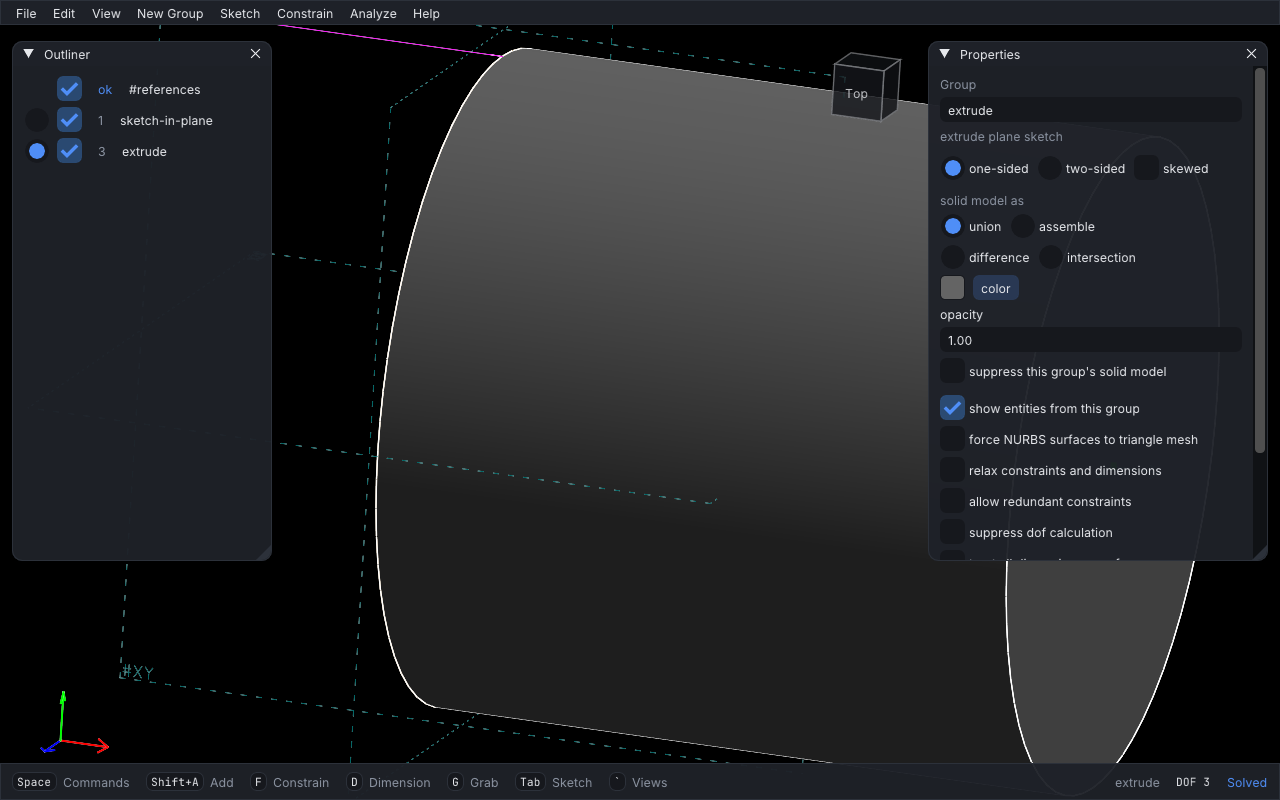
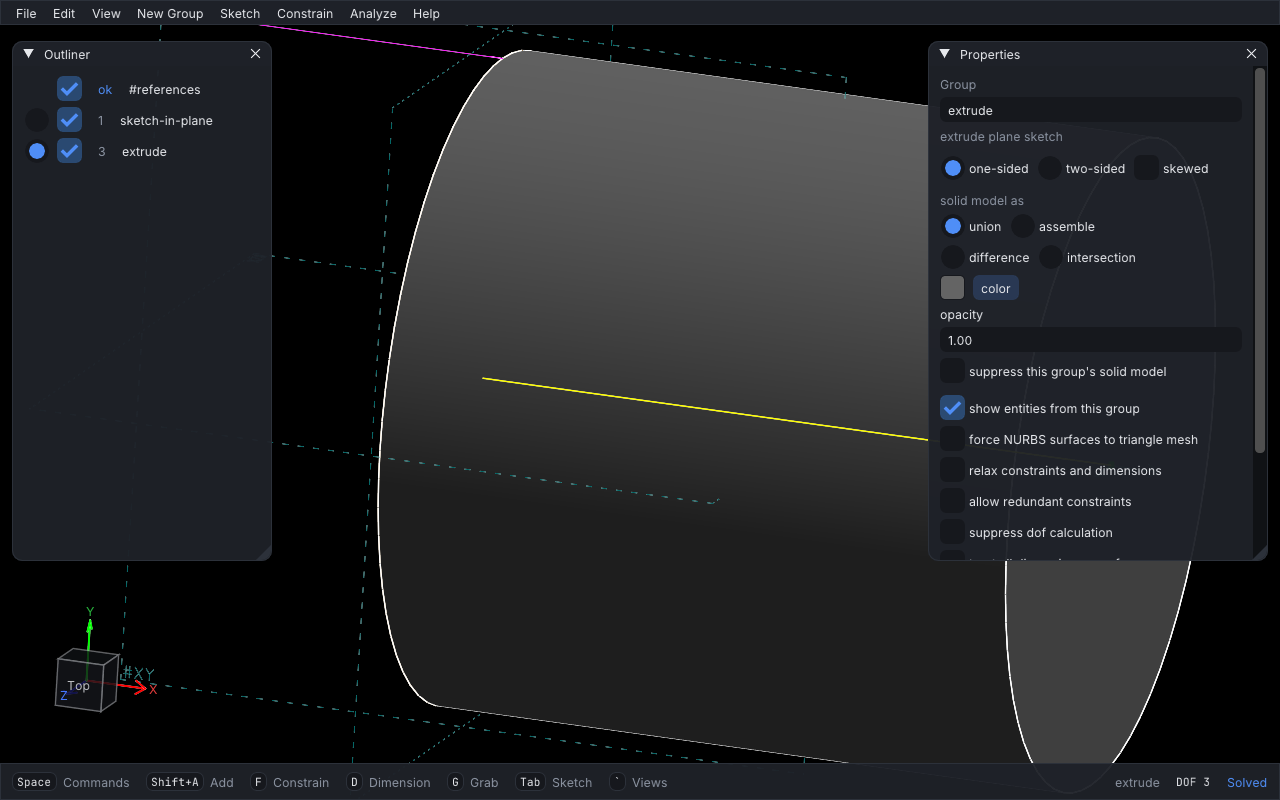
NG: the view cube moves to the bottom left, with SolveSpace's axes.
As the owner decided: Onshape, Fusion 360, Shapr3D and FreeCAD all show
axes with their cube, and SolveSpace has always drawn its X/Y/Z axes in the
bottom left, so the cube goes there with the axes coming out of it
(labelled). The axes are still the reference planes' normals, selectable
for constraints: the core draws them from GraphicsWindow::
referenceAxesAnchor when set, and the cube takes the mouse only over its
faces (ViewCubeTakesMouseAt), so clicks on the axes beside it, or just off
it, reach the canvas. The cube handles its own press, drag and release.

It moves right of a tall Outliner when there is room and otherwise stays
in its corner on screen.

diff --git a/src/ui/viewcube.cpp b/src/ui/viewcube.cpp
@@ -1,5 +1,8 @@
 //-----------------------------------------------------------------------------
-// The view cube.
+// The view cube, in the bottom left of the viewport with SolveSpace's reference X/Y/Z axes
+// coming out of it (decided with the owner, 2026-10-17: where SolveSpace has always drawn its
+// axes). The axes are the canvas's own entities, still selectable for constraints; the cube
+// takes the mouse only over its faces, so clicks beside it reach them.
 //-----------------------------------------------------------------------------
 #include "solvespace.h"
 #include "imgui.h"
@@ -10,9 +13,13 @@
 namespace SolveSpace {
 namespace Ui {
 
-static const double  CubeSize = 26; // half the side of a face seen square on
-static const float   Box      = 100; // the area it may cover, for any orientation
-static Point2d       gCenter;
+static const double CubeSize   = 24;  // half the side of a face seen square on
+static const double AxisLength = 62;  // from the cube's centre, past its corners
+static const float  Box        = 150; // the area cube, axes and labels may cover
+
+static Point2d gCenter;
+static bool    gPressed = false, gDragging = false;
+static Point2d gPressAt;
 
 Point2d ViewCubeCenter() {
     return gCenter;
@@ -22,15 +29,25 @@ double ViewCubeSize() {
     return CubeSize;
 }
 
+bool ViewCubeTakesMouseAt(double x, double y, bool canvasPressed) {
+    if(gPressed) return true; // a press on the cube keeps the mouse until it is released
+    if(canvasPressed) return false;
+    return ViewCubePick(SS.GW.projRight, SS.GW.projUp, gCenter, CubeSize, Point2d::From(x, y))
+        .has_value();
+}
+
 static ImVec2 V(Point2d p) {
     return ImVec2((float)p.x, (float)p.y);
 }
 
-// The top right corner of the viewport, left of any panel there.
+// The bottom left corner of the viewport, above the status bar, right of any panel there.
 static ImVec2 Placement() {
-    ImGuiIO &io  = ImGui::GetIO();
-    float    top = ImGui::GetFrameHeight() + 12;
-    ImRect   box(io.DisplaySize.x - 12 - Box, top, io.DisplaySize.x - 12, top + Box);
+    ImGuiIO &io     = ImGui::GetIO();
+    float    bottom = io.DisplaySize.y - 12;
+    if(ImGuiWindow *status = ImGui::FindWindowByName("##statusbar")) {
+        if(status->WasActive) bottom = status->Pos.y - 8;
+    }
+    ImRect box(12, bottom - Box, 12 + Box, bottom);
     for(int pass = 0; pass < 8; pass++) {
         bool moved = false;
         for(ImGuiWindow *w : ImGui::GetCurrentContext()->Windows) {
@@ -40,51 +57,76 @@ static ImVec2 Placement() {
                 continue; // (the pie and the cube itself have no background)
             }
             ImRect r = w->Rect();
-            if(!r.Overlaps(box) || r.Min.y < 1) continue; // the menu bar sits above
-            float shift = box.Max.x - (r.Min.x - 12);
-            box.Min.x -= shift;
-            box.Max.x -= shift;
+            if(!r.Overlaps(box) || r.Min.y < 1 || strcmp(w->Name, "##statusbar") == 0) continue;
+            float shift = (r.Max.x + 12) - box.Min.x;
+            box.Min.x += shift;
+            box.Max.x += shift;
             moved = true;
         }
         if(!moved) break;
     }
+    // No free spot (a small window with both side panels): stay in the corner, on screen.
+    if(box.Max.x > io.DisplaySize.x) return ImVec2(12, bottom - Box);
     return box.Min;
 }
 
 std::function<void()> DrawViewCube() {
     std::function<void()> run;
-    ImVec2 at = Placement();
+    ImGuiIO &io = ImGui::GetIO();
+    ImVec2   at = Placement();
+    // No inputs: the cube's faces take the mouse (ViewCubeTakesMouseAt), the rest of the area
+    // belongs to the canvas, where the axes are.
     ImGui::SetNextWindowPos(at);
     ImGui::SetNextWindowSize(ImVec2(Box, Box));
     ImGui::PushStyleVar(ImGuiStyleVar_WindowPadding, ImVec2(0, 0));
     ImGui::Begin("##viewcube-window", nullptr,
                  ImGuiWindowFlags_NoDecoration | ImGuiWindowFlags_NoBackground |
                  ImGuiWindowFlags_NoSavedSettings | ImGuiWindowFlags_NoNav |
-                 ImGuiWindowFlags_NoFocusOnAppearing | ImGuiWindowFlags_NoBringToFrontOnFocus);
+                 ImGuiWindowFlags_NoInputs | ImGuiWindowFlags_NoFocusOnAppearing |
+                 ImGuiWindowFlags_NoBringToFrontOnFocus);
     ImGui::PopStyleVar();
-    gCenter = Point2d::From(at.x + Box / 2, at.y + Box / 2);
-    Vector right = SS.GW.projRight, up = SS.GW.projUp;
-
+    Point2d center = Point2d::From(at.x + Box / 2, at.y + Box / 2);
+    if(!center.Equals(gCenter)) {
+        gCenter = center;
+        // The canvas draws the axes from here (pixels from the view centre, y up).
+        SS.GW.referenceAxesAnchor =
+            Point2d::From(center.x - io.DisplaySize.x / 2, io.DisplaySize.y / 2 - center.y);
+        SS.GW.referenceAxesLength = AxisLength;
+        SS.GW.Invalidate(/*clearPersistent=*/true);
+    }
+    // The cube's area, findable by the UI tests as "viewcube" (the window takes no input).
     ImGui::InvisibleButton("##viewcube", ImVec2(Box, Box));
-    // See-through until the mouse is on it, so it hides little of the model (as FreeCAD's).
-    bool  over    = ImGui::IsItemHovered() || ImGui::IsItemActive();
-    float opacity = over ? 0.97f : 0.8f;
-    ImGuiIO &io = ImGui::GetIO();
-    Point2d  mouse = Point2d::From(io.MousePos.x, io.MousePos.y);
+
+    Vector  right = SS.GW.projRight, up = SS.GW.projUp;
+    Point2d mouse = Point2d::From(io.MousePos.x, io.MousePos.y);
+    bool    overOtherUi = ImGui::IsWindowHovered(ImGuiHoveredFlags_AnyWindow);
     std::optional<Vector> hovered;
-    if(ImGui::IsItemHovered() || ImGui::IsItemActive()) {
-        hovered = ViewCubePick(right, up, gCenter, CubeSize, mouse);
+    if(!overOtherUi || gPressed) hovered = ViewCubePick(right, up, gCenter, CubeSize, mouse);
+    // Press on a face, then drag to orbit (as a middle-button drag) or release to look from
+    // what was pressed.
+    if(ImGui::IsMouseClicked(ImGuiMouseButton_Left) && hovered && !overOtherUi) {
+        gPressed  = true;
+        gDragging = false;
+        gPressAt  = mouse;
     }
-    // Dragging the cube orbits, as a middle-button drag does; a click looks from what it hit.
-    if(ImGui::IsItemActive() && ImGui::IsMouseDragging(ImGuiMouseButton_Left, 3)) {
-        double dx = io.MouseDelta.x, dy = io.MouseDelta.y;
-        if(dx != 0 || dy != 0) run = [dx, dy] { SS.GW.OrbitBy(dx, dy); };
-        hovered.reset();
-    } else if(ImGui::IsItemDeactivated() && !ImGui::IsMouseDragPastThreshold(0, 3) && hovered) {
-        Vector dir = *hovered;
-        run = [dir] { SS.GW.SnapToDirection(dir, /*animate=*/true); };
+    if(gPressed) {
+        if(!gDragging && mouse.DistanceTo(gPressAt) > 3) gDragging = true;
+        if(gDragging) {
+            double dx = io.MouseDelta.x, dy = io.MouseDelta.y;
+            if(dx != 0 || dy != 0) run = [dx, dy] { SS.GW.OrbitBy(dx, dy); };
+            hovered.reset();
+        }
+        if(ImGui::IsMouseReleased(ImGuiMouseButton_Left) || !io.MouseDown[0]) {
+            if(!gDragging && hovered) {
+                Vector dir = *hovered;
+                run = [dir] { SS.GW.SnapToDirection(dir, /*animate=*/true); };
+            }
+            gPressed = gDragging = false;
+        }
     }
 
+    // See-through until the mouse is on it, so it hides little of the model (as FreeCAD's).
+    float opacity = (hovered || gPressed) ? 0.97f : 0.8f;
     ImDrawList *dl     = ImGui::GetWindowDrawList();
     ImVec4      face   = ImGui::GetStyleColorVec4(ImGuiCol_FrameBg);
     ImVec4      text   = ImGui::GetStyleColorVec4(ImGuiCol_Text);
@@ -114,6 +156,21 @@ std::function<void()> DrawViewCube() {
             ImVec2 q[4] = { V(quad[0]), V(quad[1]), V(quad[2]), V(quad[3]) };
             dl->AddConvexPolyFilled(q, 4, hi);
         }
+    }
+    // Name the axes at their tips, in the canvas's axis colours.
+    const struct { const char *name; Vector dir; ImU32 colour; } axes[] = {
+        { "X", { 1, 0, 0 }, IM_COL32(230, 60, 60, 255) },
+        { "Y", { 0, 1, 0 }, IM_COL32(40, 180, 60, 255) },
+        { "Z", { 0, 0, 1 }, IM_COL32(70, 120, 255, 255) },
+    };
+    for(const auto &a : axes) {
+        double sx = a.dir.Dot(right), sy = -a.dir.Dot(up);
+        double len = sqrt(sx * sx + sy * sy);
+        if(len < 0.25) continue; // pointing at or away from the viewer: no room for a label
+        double  d   = AxisLength + 9;
+        ImVec2  ts  = ImGui::CalcTextSize(a.name);
+        ImVec2  pos((float)(gCenter.x + sx * d - ts.x / 2), (float)(gCenter.y + sy * d - ts.y / 2));
+        dl->AddText(pos, a.colour, a.name);
     }
     ImGui::End();
     return run;

diff --git a/test/ngui/views/test.cpp b/test/ngui/views/test.cpp
@@ -117,14 +117,45 @@ TEST_CASE(dragging_the_view_cube_orbits) {
     CHECK_TRUE(SS.GW.pending.operation == GraphicsWindow::Pending::NONE);
 }
 
-TEST_CASE(view_cube_keeps_clear_of_the_properties_panel) {
+TEST_CASE(view_cube_sits_bottom_left_with_the_axes) {
     CHECK_LOAD("line.slvs");
-    std::optional<Driver::Item> props = Driver::FindItem("Properties");
-    std::optional<Driver::Item> cube  = Driver::FindItem("viewcube");
-    CHECK_TRUE(props && cube);
-    if(props && cube) CHECK_TRUE(cube->x1 <= props->x0 || cube->y0 >= props->y1);
-    // With Properties closed it moves into the corner.
+    std::optional<Driver::Item> cube = Driver::FindItem("viewcube");
+    CHECK_TRUE(cube.has_value());
+    if(cube) CHECK_TRUE(cube->x0 < 40 && cube->y1 > Driver::WindowSize().y - 80);
+    CHECK_TRUE(SS.GW.referenceAxesAnchor.has_value());
+}
+
+TEST_CASE(an_axis_beside_the_cube_can_be_selected) {
+    // The axes are SolveSpace's reference normals: selectable, e.g. for "parallel to Z".
+    CHECK_LOAD("line.slvs");
+    Driver::Key("Keypad 1"); // Z points up the screen
+    Point2d c = Ui::ViewCubeCenter();
+    ClickAt(Point2d::From(c.x, c.y - 52)); // past the cube, on the Z axis
+    hEntity zAxis = SK.GetEntity(Request::HREQUEST_REFERENCE_XY.entity(0))->normal;
+    CHECK_TRUE(SS.GW.selection.n == 1 && SS.GW.selection[0].entity == zAxis);
+    CHECK_TRUE(ViewIs(ViewPreset::FRONT)); // and the view stayed
+}
+
+TEST_CASE(clicks_beside_the_cube_reach_the_canvas) {
+    CHECK_LOAD("line.slvs");
+    Driver::Key("Keypad 1");
+    Point2d c = Ui::ViewCubeCenter();
+    ClickAt(Point2d::From(c.x + 55, c.y - 55)); // inside its area, off the cube and the axes
+    CHECK_TRUE(ViewIs(ViewPreset::FRONT));
+    CHECK_TRUE(SS.GW.selection.n == 0);
+}
+
+TEST_CASE(view_cube_moves_right_of_a_tall_outliner) {
+    CHECK_LOAD("line.slvs");
+    Driver::Resize(720, 480); // the app's minimum height stops it at 636
+    Point2d ws = Driver::WindowSize();
+    // With both side panels there is no free spot: it stays in its corner, on screen.
+    std::optional<Driver::Item> cube = Driver::FindItem("viewcube");
+    CHECK_TRUE(cube && cube->x1 <= ws.x);
+    // Without Properties it moves right of the Outliner, which reaches down beside it.
     CHECK_TRUE(ClosePanel("Properties"));
+    std::optional<Driver::Item> outliner = Driver::FindItem("Outliner");
     cube = Driver::FindItem("viewcube");
-    CHECK_TRUE(cube && cube->x1 > Driver::WindowSize().x - 20);
+    CHECK_TRUE(outliner && cube);
+    if(outliner && cube) CHECK_TRUE(cube->x0 >= outliner->x1 && cube->x1 <= ws.x);
 }

diff --git a/src/drawentity.cpp b/src/drawentity.cpp
@@ -653,7 +653,12 @@ void Entity::Draw(DrawAs how, Canvas *canvas) {
 
                 Quaternion q = NormalGetNum();
                 Vector tail;
-                if(asReference) {
+                if(asReference && SS.GW.referenceAxesAnchor) {
+                    stroke.width = 2;
+                    Point2d a = *SS.GW.referenceAxesAnchor;
+                    tail = camera.projRight.ScaledBy(a.x / camera.scale).Plus(
+                           camera.projUp.ScaledBy(a.y / camera.scale)).Minus(camera.offset);
+                } else if(asReference) {
                     // Draw an extra copy of the x, y, and z axes, that's
                     // always in the corner of the view and at the front.
                     // So those are always available, perhaps useful.
@@ -674,7 +679,8 @@ void Entity::Draw(DrawAs how, Canvas *canvas) {
                 tail = camera.AlignToPixelGrid(tail);
 
                 hcs = canvas->GetStroke(stroke);
-                Vector v = (q.RotationN()).WithMagnitude(50.0 / camera.scale);
+                double length = asReference ? SS.GW.referenceAxesLength : 50.0;
+                Vector v = (q.RotationN()).WithMagnitude(length / camera.scale);
                 Vector tip = tail.Plus(v);
                 canvas->DrawLine(tail, tip, hcs);
 

diff --git a/src/ui/viewcube.h b/src/ui/viewcube.h
@@ -1,6 +1,6 @@
 //-----------------------------------------------------------------------------
-// The view cube in the top right of the viewport: click a face, edge or corner to look from
-// there; drag it to orbit.
+// The view cube in the bottom left of the viewport, with the reference axes coming out of it:
+// click a face, edge or corner to look from there; drag it to orbit.
 //-----------------------------------------------------------------------------
 #ifndef SOLVESPACE_UI_VIEWCUBE_H
 #define SOLVESPACE_UI_VIEWCUBE_H
@@ -16,6 +16,10 @@ std::function<void()> DrawViewCube();
 // Where it was drawn last frame (window coordinates) and its half-size, for ViewCubeFaces.
 Point2d ViewCubeCenter();
 double  ViewCubeSize();
+// Whether a mouse event at (x, y) is the cube's: over one of its faces, or during a press
+// that started on one. Everything else around it (the axes) belongs to the canvas.
+// A canvas press in progress (a marquee, say) keeps the mouse even over the cube.
+bool ViewCubeTakesMouseAt(double x, double y, bool canvasPressed);
 
 }
 }

diff --git a/test/ng/viewedit/test.cpp b/test/ng/viewedit/test.cpp
@@ -37,3 +37,19 @@ TEST_CASE(orbit_by_turns_the_view_and_keeps_it_square) {
     }
     SS.turntableNav = false;
 }
+
+TEST_CASE(reference_axes_drawn_at_an_anchor_can_be_hovered) {
+    // NG draws SolveSpace's corner X/Y/Z axes out of its view cube; they stay selectable.
+    SS.GW.SnapToView(ViewPreset::FRONT, false);
+    SS.GW.referenceAxesAnchor = Point2d::From(-300, -200); // pixels from the centre, y up
+    SS.GW.referenceAxesLength = 60;
+    hEntity zAxis = SK.GetEntity(Request::HREQUEST_REFERENCE_XY.entity(0))->normal;
+    hEntity xAxis = SK.GetEntity(Request::HREQUEST_REFERENCE_YZ.entity(0))->normal;
+    // From the front, Z points up the screen and X to the right.
+    SS.GW.HitTestMakeSelection(Point2d::From(-300, -200 + 50));
+    CHECK_TRUE(SS.GW.hover.entity == zAxis);
+    SS.GW.HitTestMakeSelection(Point2d::From(-300 + 50, -200));
+    CHECK_TRUE(SS.GW.hover.entity == xAxis);
+    SS.GW.referenceAxesAnchor.reset();
+    SS.GW.referenceAxesLength = 50;
+}

diff --git a/src/ui.h b/src/ui.h
@@ -685,6 +685,11 @@ public:
     bool ToggleSketchFocus(bool animate); // false if there was nothing to do
     // The custom-drawn toolbar (toolbar.cpp); NG shows its tool shelf for View > Show Toolbar.
     bool classicToolbar = true;
+    // The reference X/Y/Z axes (the normals of #references, selectable for constraints): where
+    // they start, in pixels from the view centre with y up, and their length in pixels. Unset,
+    // they start 60 px in from the bottom-left corner. (NG draws them out of its view cube.)
+    std::optional<Point2d> referenceAxesAnchor;
+    double                 referenceAxesLength = 50;
     void ActivateGroup(hGroup hg);        // what the property browser's "active" radio does
     void LookOntoActiveWorkplane(bool animate);
     // The translated menu text of a command ("&Horizontal"), or "" if it has no menu item.

diff --git a/src/platform/guisdl.cpp b/src/platform/guisdl.cpp
@@ -40,6 +40,7 @@
 #include "platform/sdl/icontextures.h"
 #include "ui/iconraster.h"
 #include "ui/keyrouter.h"
+#include "ui/viewcube.h"
 #include "ui/uiactions.h"
 #include "ui/coreactions.h"
 #include "ui/ngui.h"
@@ -789,6 +790,8 @@ static bool ImGuiTakesMouseAt(float x, float y) {
         if(io.MouseDownOwned[b]) ownedDown = true; else canvasDown = true;
     }
     if(g.ActiveId != 0 || g.OpenPopupStack.Size > 0 || ownedDown) return io.WantCaptureMouse;
+    // The view cube takes no ImGui input: it claims its faces, and a press that began on one.
+    if(Ui::ViewCubeTakesMouseAt(x, y, canvasDown)) return true;
     if(canvasDown) return false;
     ImGuiWindow *hovered = nullptr, *underMoving = nullptr;
     ImGui::FindHoveredWindowEx(ImVec2(x, y), false, &hovered, &underMoving);

diff --git a/AGENTS.md b/AGENTS.md
@@ -113,11 +113,14 @@ Rules:
 - **Command palette** and **pie menus** float over the viewport. The tool shelf is optional and
   hidden by default. (Built 2026-10-17: View ▸ Show Toolbar shows a "Tools" panel of Lucide-style
   icon buttons for every old-toolbar tool; NG never draws the custom toolbar.)
-- **View cube** (added 2026-10-17, as in Fusion 360, Onshape and FreeCAD): top right of the
-  viewport, left of any panel there. Click a face to look at it, an edge or a corner to look
+- **View cube** (added 2026-10-17, as in Fusion 360, Onshape, Shapr3D and FreeCAD, which all
+  show axes with their cube): bottom left of the viewport, where SolveSpace has always drawn its
+  X/Y/Z axes, which now come out of the cube (decided with the owner, 2026-10-17: in keeping
+  with SolveSpace, and the corner never has to dodge panels). The axes are still the reference
+  planes' normals, selectable for constraints (`GraphicsWindow::referenceAxesAnchor`); the cube
+  takes the mouse only over its faces. Click a face to look at it, an edge or a corner to look
   between its faces (Z up, as the numpad views); drag it to orbit. 80% opaque until the mouse
-  is on it. It does not replace SolveSpace's X/Y/Z axes in the bottom-left corner: those are the
-  reference planes' normals, selectable for constraints (decided with the owner, 2026-10-17).
+  is on it.
 
 **Typed values become constraints.** While a modal tool is active, typed numbers fill HUD fields
 (`Tab` cycles, `Enter` confirms, `Esc` or right-click cancels). Unlike Blender, a typed value

diff --git a/docs/owner-checks.md b/docs/owner-checks.md
@@ -64,15 +64,15 @@ SolveSpace's toolbar), features as shaded solids in the theme accent; `generate.
 
 ### View cube (2026-10-17)
 Screenshots: `docs/owner-review/viewcube-dark.png`, `viewcube-light.png`.
-- [ ] The cube in the top right turns with the view; faces are labelled.
+- [ ] The cube sits in the bottom left with the X/Y/Z axes coming out of it (labelled), and
+      turns with the view.
 - [ ] Clicking a face looks straight at it (same as the numpad views); an edge or corner looks
       between its faces; the part under the mouse is highlighted first.
 - [ ] Dragging the cube orbits the view; the drag never selects or moves anything.
-- [ ] It stays left of the Properties panel and moves into the corner when Properties closes.
+- [ ] The axes beside the cube can still be selected for constraints (e.g. parallel to Z),
+      and clicks just off the cube reach the drawing.
 - [ ] It is 80% opaque until the mouse is on it, then solid.
-- [ ] Clicks just outside the cube but inside its square (the corners of its area) are taken
-      by the cube, not the canvas. Tell me if you notice it.
-- The bottom-left X/Y/Z axes stay: they are the reference normals, selectable for constraints.
+- [ ] In a small window it moves right of the Outliner when there is room.
 
 ## Decisions waiting for the owner
 - Merge order: `ng/m1a-shell` > `ng/m1b-interaction` > `ng/m1-ui-harness` > `ng/m1c-panels` >
